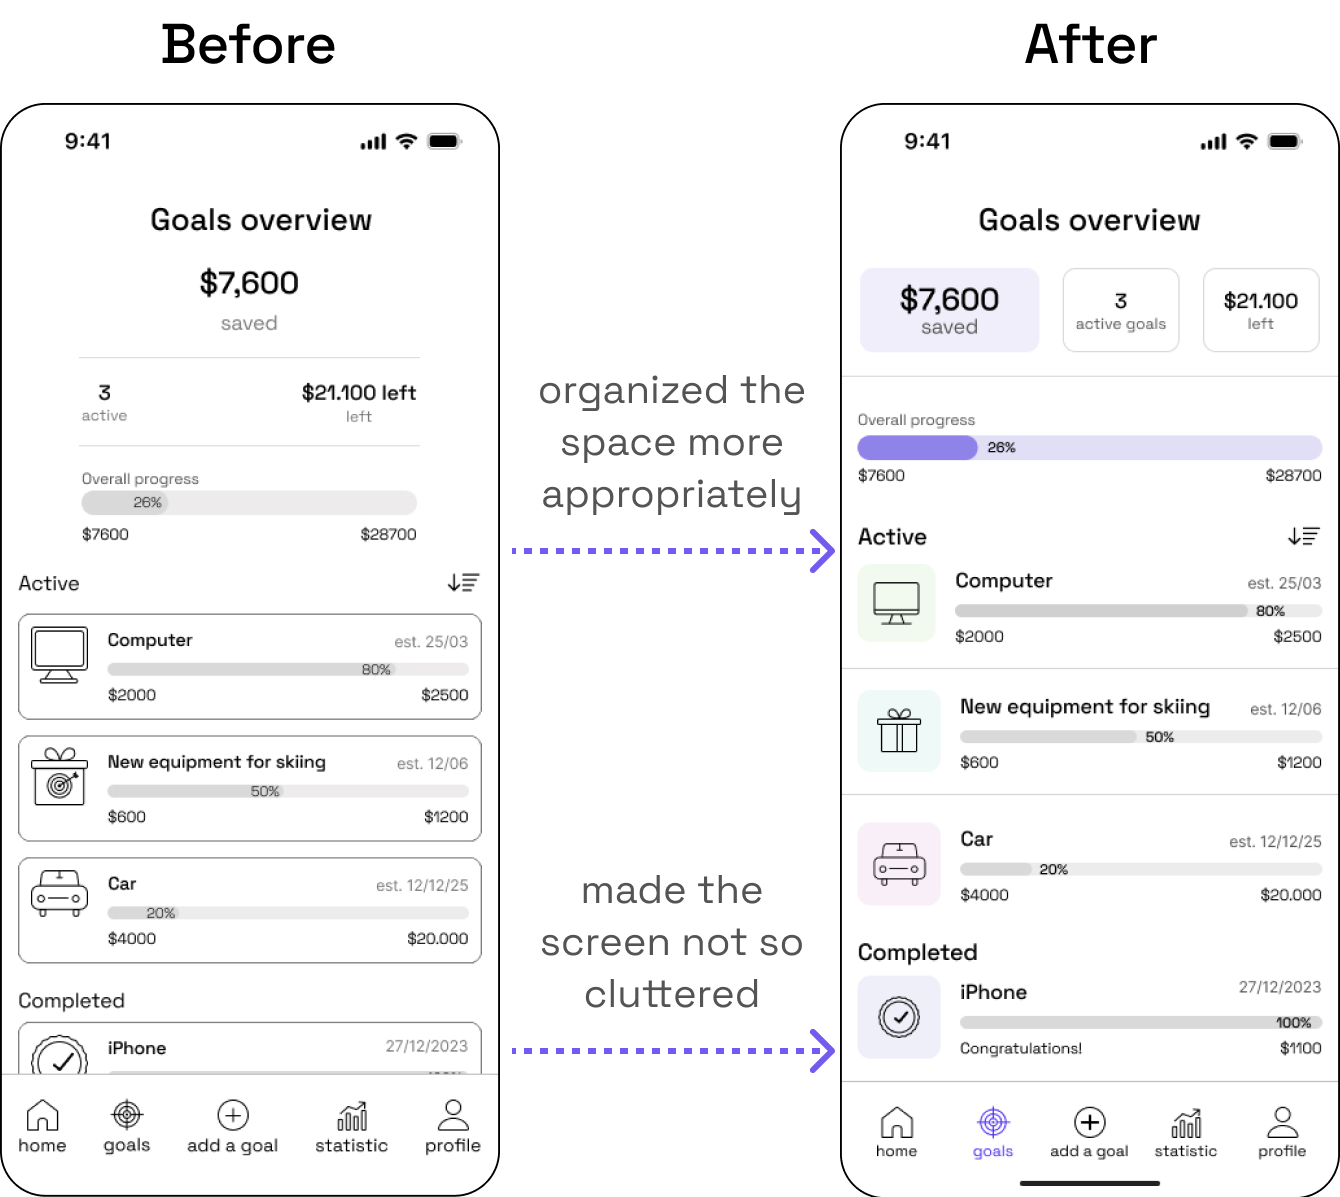
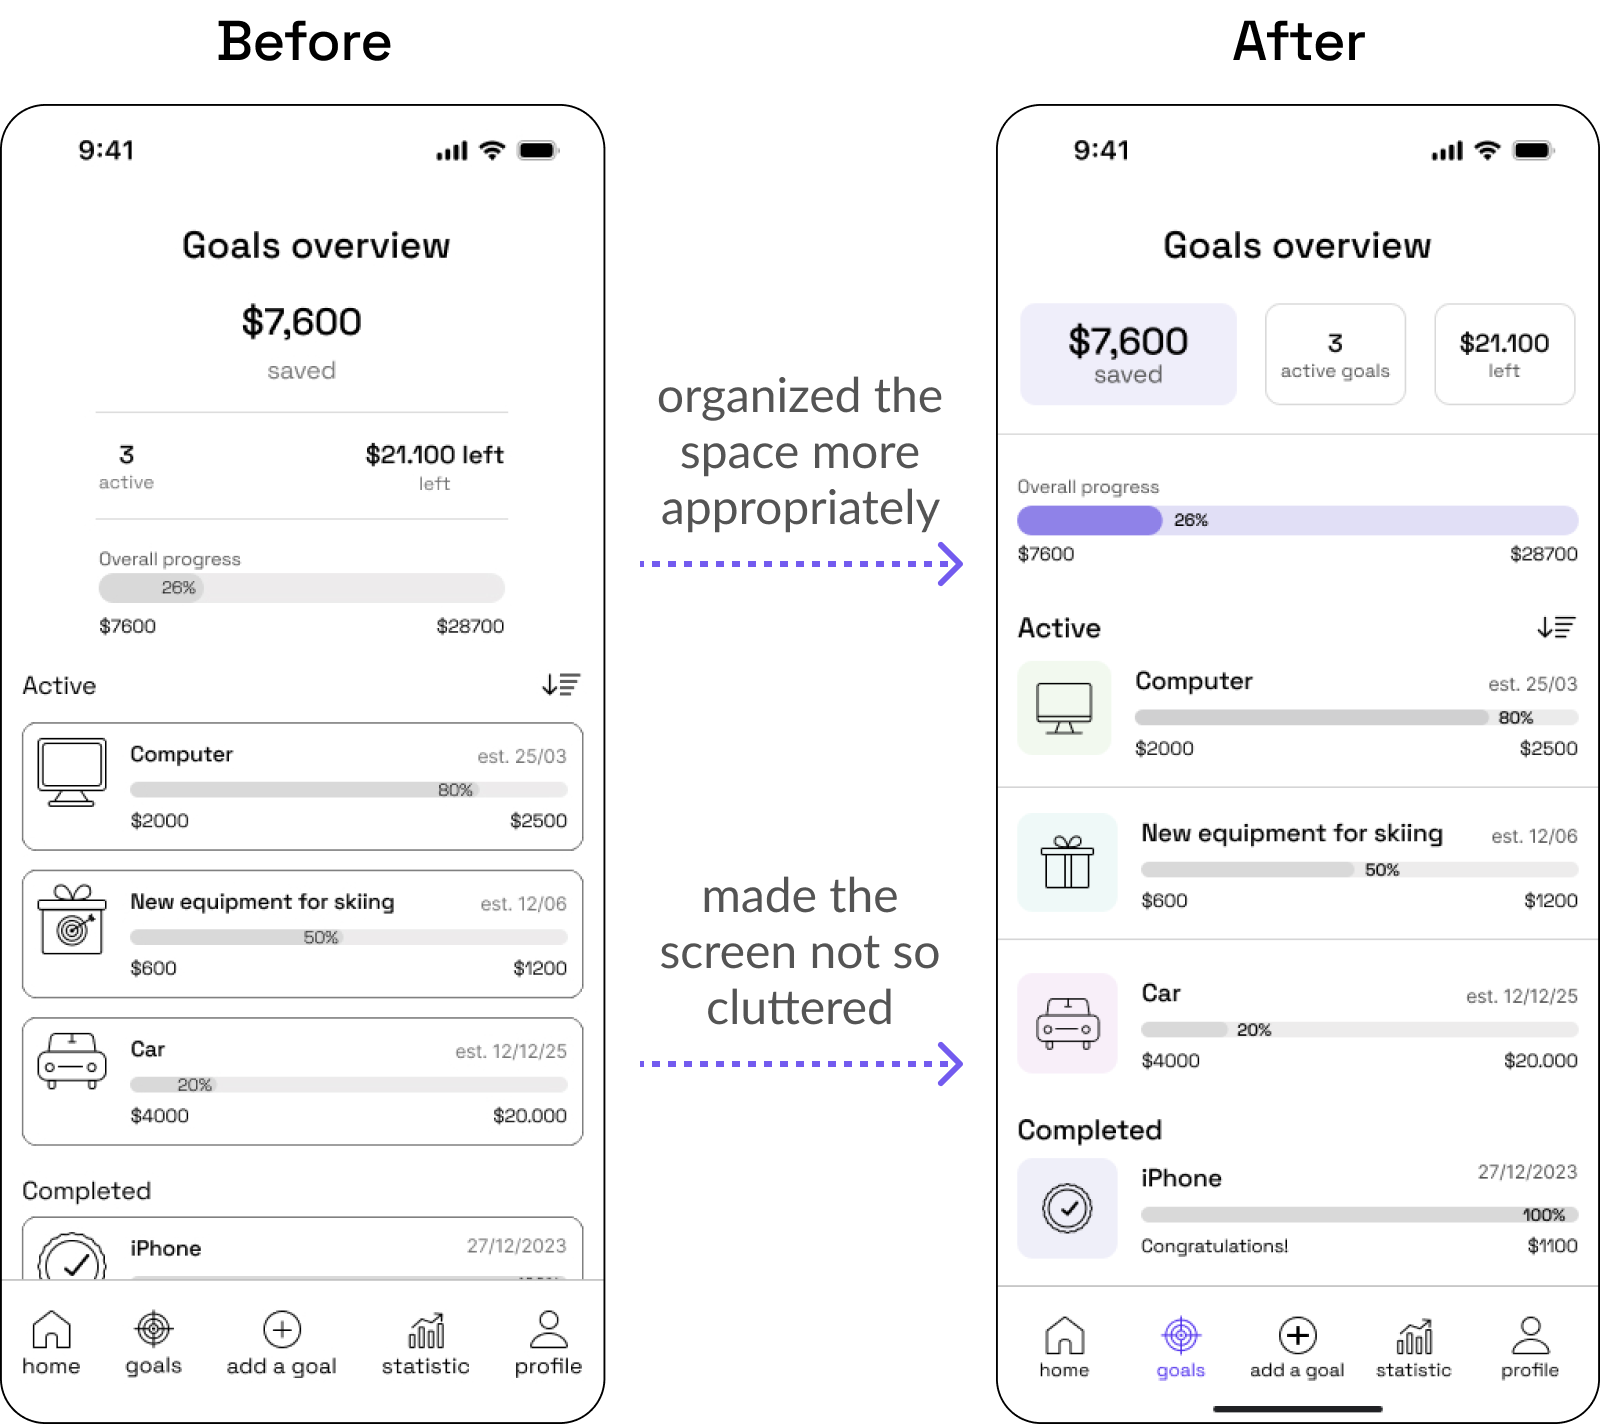
Fixed Saving page

diff --git a/components/saving/imageTextSaving_3/imageTextSaving_3.module.scss b/components/saving/imageTextSaving_3/imageTextSaving_3.module.scss
@@ -19,6 +19,12 @@
   }
 }
 
+.containerImageTextSaving_1 {
+  @include tablet {
+    width: 100%;
+  }
+}
+
 .image {
   width: 100%;
   height: 100%;
@@ -27,7 +33,7 @@
 
 .imageTextSavingMobile_3 {
   @extend .image;
-  aspect-ratio: 0.5;
+  aspect-ratio: 1080 / 1274;
 }
 
 .imageTextSavingDesktop_3 {
@@ -50,6 +56,10 @@
   @extend .image;
   aspect-ratio: 1152/328;
 
+  @include tablet {
+    width: 50%;
+  }
+
   @include tablet-up {
     margin-top: 0px;
     max-width: 360px;
@@ -61,10 +71,16 @@
   flex-direction: column;
 
   @include tablet {
-    margin-bottom: 60px;
+    flex-direction: row;
+    margin-bottom: 25px;
   }
 
-  @include tablet-up {
+  @include desktop {
+    flex-direction: row;
+    gap: 60px;
+  }
+
+  @include desktop-large {
     flex-direction: row;
     gap: 60px;
   }

diff --git a/components/saving/imageTextSaving_12/imageTextSaving_12.module.scss b/components/saving/imageTextSaving_12/imageTextSaving_12.module.scss
@@ -24,18 +24,29 @@
 
 .imageTextSavingDesktop_12 {
   @extend .image;
-  aspect-ratio: 1688/1536;
+  aspect-ratio: 1564/1464;
   max-width: 335px;
+  margin-left: -48px;
 
   @include tablet-up {
-    max-width: 46%;
-    aspect-ratio: 1.18;
     margin-left: -100px;
+  }
+
+  @include tablet {
+    max-width: 100%;
+  }
+
+  @include desktop {
+    max-width: 46%;
+  }
+
+  @include desktop-large {
+    max-width: 46%;
   }
 }
 
 .descriptionImageTextSaving_1 {
-  padding: 138px 108px;
+  padding: 138px 75px;
   border-radius: 37px;
   opacity: 0px;
 
@@ -44,4 +55,8 @@
     #f8f8f8 0%,
     rgba(248, 248, 248, 0.2) 100%
   );
+
+  @include tablet-up {
+    padding: 138px 108px;
+  }
 }

diff --git a/components/ui/imageTextBeforeAfter/imageTextBefaoreAfter.module.scss b/components/ui/imageTextBeforeAfter/imageTextBefaoreAfter.module.scss
@@ -22,7 +22,7 @@
 
 .imageTextSavingMobile_8 {
   @extend .image;
-  aspect-ratio: 1.25;
+  aspect-ratio: 1080 / 965;
 }
 
 .imageTextRecipeMobile_2 {
@@ -38,7 +38,14 @@
 .imageTextSavingPhoneDesktop_8 {
   @extend .image;
   aspect-ratio: 1.63;
-  max-width: 750px;
+
+  @include tablet-up {
+    max-width: 750px;
+  }
+
+  @include tablet {
+    max-width: 550px;
+  }
 }
 
 .imageTextRecipePhoneDesktop_2 {

diff --git a/components/saving/imageTextSaving_6/imageTextSaving_6.module.scss b/components/saving/imageTextSaving_6/imageTextSaving_6.module.scss
@@ -52,11 +52,22 @@
 
 .imageTextSavingMobile_6 {
   @extend .image;
-  aspect-ratio: 2.63;
+  aspect-ratio: 1080 / 327;
 }
 
 .imageTextSavingDesktop_6 {
   @extend .image;
   aspect-ratio: 1368 / 556;
-  max-width: 440px;
+
+  @include tablet {
+    max-width: 300px;
+  }
+
+  @include desktop {
+    max-width: 400px;
+  }
+
+  @include desktop-large {
+    max-width: 440px;
+  }
 }

diff --git a/components/saving/imageTextSaving_7/imageTextSaving_7.module.scss b/components/saving/imageTextSaving_7/imageTextSaving_7.module.scss
@@ -34,7 +34,7 @@
 
 .imageTextSavingMobile_7 {
   @extend .image;
-  aspect-ratio: 0.72;
+  aspect-ratio: 1080 / 1188;
 }
 
 .imageTextSavingDesktop_7 {

diff --git a/components/vintage/imageTextVintage_1/imageTextVintage_1.module.scss b/components/vintage/imageTextVintage_1/imageTextVintage_1.module.scss
@@ -34,7 +34,7 @@
 
 .imageTextSavingMobile_7 {
   @extend .image;
-  aspect-ratio: 0.72;
+  aspect-ratio: 1080 / 1188;
 }
 
 .imageTextSavingDesktop_7 {

diff --git a/components/ui/imageTextSimple/imageTextSimple.module.scss b/components/ui/imageTextSimple/imageTextSimple.module.scss
@@ -56,7 +56,7 @@
 
 .imageTextSavingMobile_1 {
   @extend .image;
-  aspect-ratio: 0.52;
+  aspect-ratio: 1080 /1742;
 }
 
 .imageTextVintageMobile_1 {

diff --git a/components/saving/imageTextSaving_2/imageTextSaving_2.module.scss b/components/saving/imageTextSaving_2/imageTextSaving_2.module.scss
@@ -34,7 +34,7 @@
 
 .imageTextSavingMobile_2 {
   @extend .image;
-  aspect-ratio: 0.52;
+  aspect-ratio: 0.48;
 }
 
 .imageTextSavingDesktop_2 {

diff --git a/components/saving/imageTextSaving_11/imageTextSaving_11.module.scss b/components/saving/imageTextSaving_11/imageTextSaving_11.module.scss
@@ -57,6 +57,5 @@
 
   @include tablet-up {
     max-width: 42%;
-    aspect-ratio: 1.06;
   }
 }
